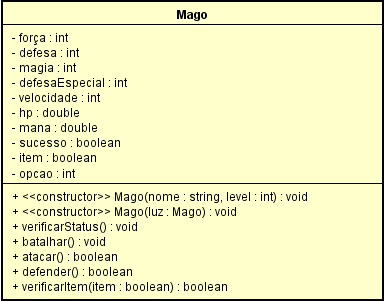
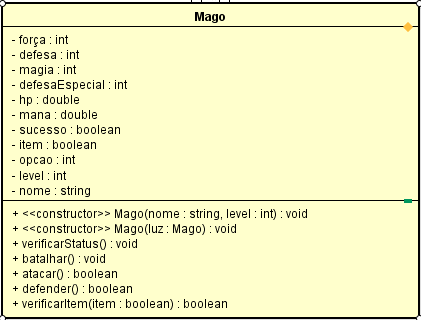
Atualização

Changed region(s): [[0.0, 0.0, 1.0, 1.0]]

diff --git a/Mago.cpp b/Mago.cpp
@@ -8,25 +8,28 @@ using std::cout;
 using std::string;
 using std::setw;
 
+Inimigo monstro;
+
 Mago::Mago(const string &nome, int level){
+	
 	this->nome=nome;
+	this->level = level;
 	this->hp = 198+level*2;
-    	this->mana = 297+level*3;
+    this->mana = 297+level*3;
 	this->forca = 0;
 	this->defesa = 84+level;
 	this->magia = 145+level*3;
 	this->defesaEspecial = 115+level*2;
-	this->velocidade = 97+level;
 }
 
 void Mago::verificarStatus(){
 	
 	cout << "\n                          Status do Mago " << nome << "\n\n";
+	cout << setw(38) << "Level " << setw(5) << level <<'\n';
 	cout << setw(38) << "Forca " << setw(5) << forca <<'\n';
 	cout << setw(38) << "Defesa " << setw(5) << defesa <<'\n';
 	cout << setw(38) << "Magia " << setw(5) << magia <<'\n';
-	cout << setw(38) <<"Defesa Especial " << setw(5) << defesaEspecial <<'\n';
-	cout << setw(38) <<"Velocidade " << setw(5) << velocidade <<"\n\n";
+	cout << setw(38) <<"Defesa Especial " << setw(5) << defesaEspecial <<'\n' << endl;
 	cout << setw(38) <<"HP " << setw(5) << hp <<'\n';
 	cout << setw(38) <<"Mana " << setw(5) << mana <<"\n\n";
 	system("pause");
@@ -34,20 +37,24 @@ void Mago::verificarStatus(){
 
 void Mago::batalhar(){
 	
-	system("cls");
-	cout << nome << " entrou em batalha\n" << endl;
-	cout << "1. Atacar" << endl;
-	cout << "0. Defender\n" << endl;
-	cout << "Escolha uma das opcoes acima: ";
-	cin >> opcao;
-	system("cls");
-	switch(opcao){
-		case 0: defender();
-				break;
-		case 1: atacar();
-				break;
-		default: cout << "\n\nOpcao invalida.\n" << endl;
-				break;
+	while(hp>0 && monstro.hp_ini>0){
+		cout << nome << " entrou em batalha\n" << endl;
+		cout << "1. Atacar" << endl;
+		cout << "0. Defender\n" << endl;
+		cout << "Escolha uma das opcoes acima: ";
+		cin >> opcao;
+		system("cls");
+		switch(opcao){
+			case 0: defender();
+					break;
+			case 1: atacar();
+					if(hp>0 && monstro.hp_ini>0){
+						defender();
+					}
+					break;
+			default: cout << "\n\nOpcao invalida.\n" << endl;
+					break;
+		}
 	}
 };
 
@@ -57,14 +64,31 @@ bool Mago::atacar(){
 	mana -= 20;
 	srand(time(NULL));
 	sucesso = rand()%2;
-	if(sucesso){
-		cout << "Ataque bem sucedido!\n" << endl;
+	if(mana>0){
+		if(sucesso){
+			cout << "Ataque bem sucedido!" << endl;
+			dano = (magia-monstro.def_esp_ini);
+			monstro.hp_ini -= dano;
+			if(monstro.hp_ini <= 0){
+				cout << "\nInimigo derrotado!\n" << endl;
+				monstro.hp_ini = 0;
+			}
+			else if(monstro.hp_ini > 0){
+				cout << "-" << dano << " de dano no inimigo\n" << endl;
+			}
+		}
+		else{
+			cout << "O inimigo se esquivou do ataque!\n" << endl;
+		}
 	}
 	else{
-		cout << "O inimigo se esquivou do ataque!\n" << endl;
+		cout << "Mana esgotada! " << nome << " nao pode atacar!\n" << endl;
 	}
 	cout << "HP de Gandalf: " << hp << endl;
 	cout << "Mana de Gandalf: " << mana << endl << endl;
+	cout << "HP do inimigo: " << monstro.hp_ini << endl << endl;
+	system("pause");
+	system("cls");
 }
 
 bool Mago::defender(){
@@ -79,11 +103,22 @@ bool Mago::defender(){
 	}
 	else{
 		cout << nome << " sofreu dano!" << endl;
-		cout << "-" << 0.1*hp << " HP\n" << endl;
-		hp -= 0.1*hp;
+		dano = defesa-(monstro.forca_ini/2);
+		hp -= dano;
+		if(hp > 0){
+			cout << "-" << dano << " HP\n" << endl;
+		}
+		if(hp <= 0){
+			cout << '\n';
+			cout << nome << " foi derrotado!\nFim de jogo!\n" << endl;
+			hp = 0;
+		}
 	}
 	cout << "HP de Gandalf: " << hp << endl;
 	cout << "Mana de Gandalf: " << mana << endl << endl;
+	cout << "HP do inimigo: " << monstro.hp_ini << endl << endl;
+	system("pause");
+	system("cls");
 }
 
 bool Mago::verificarItem(bool item){
